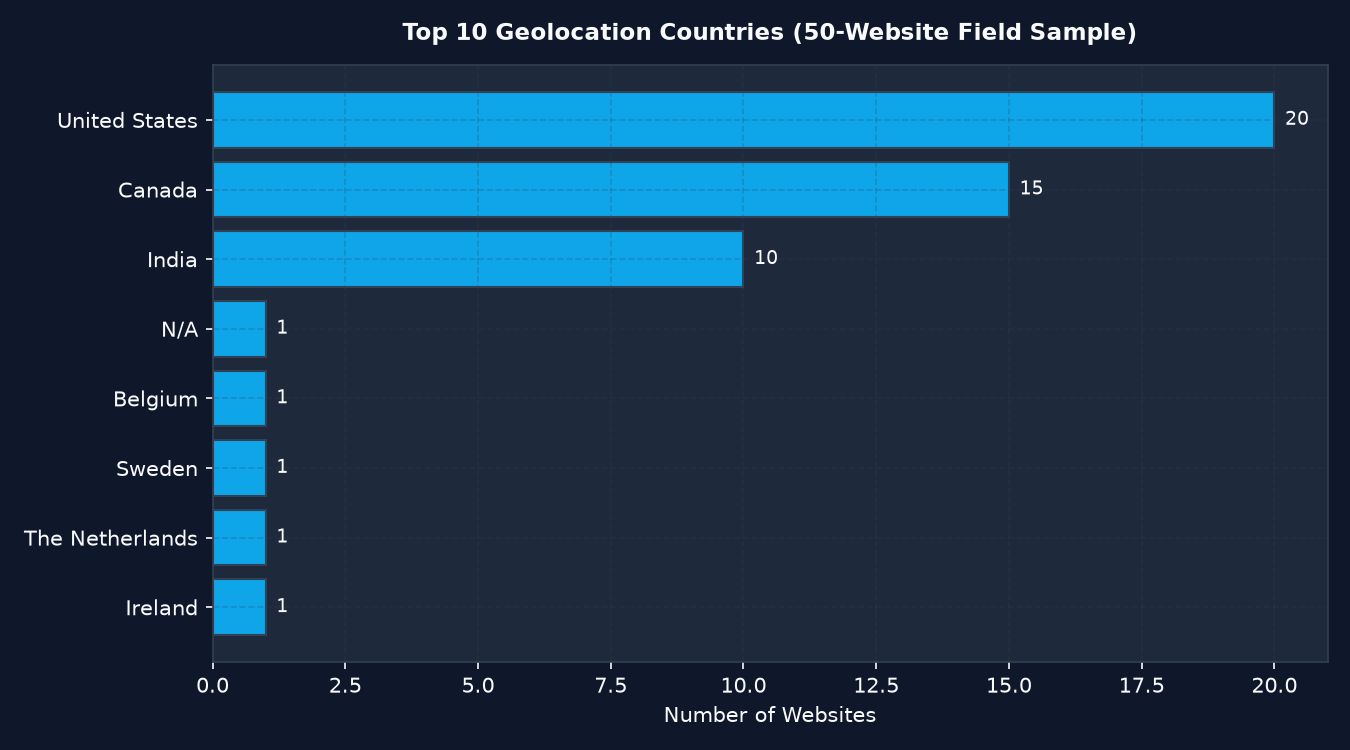
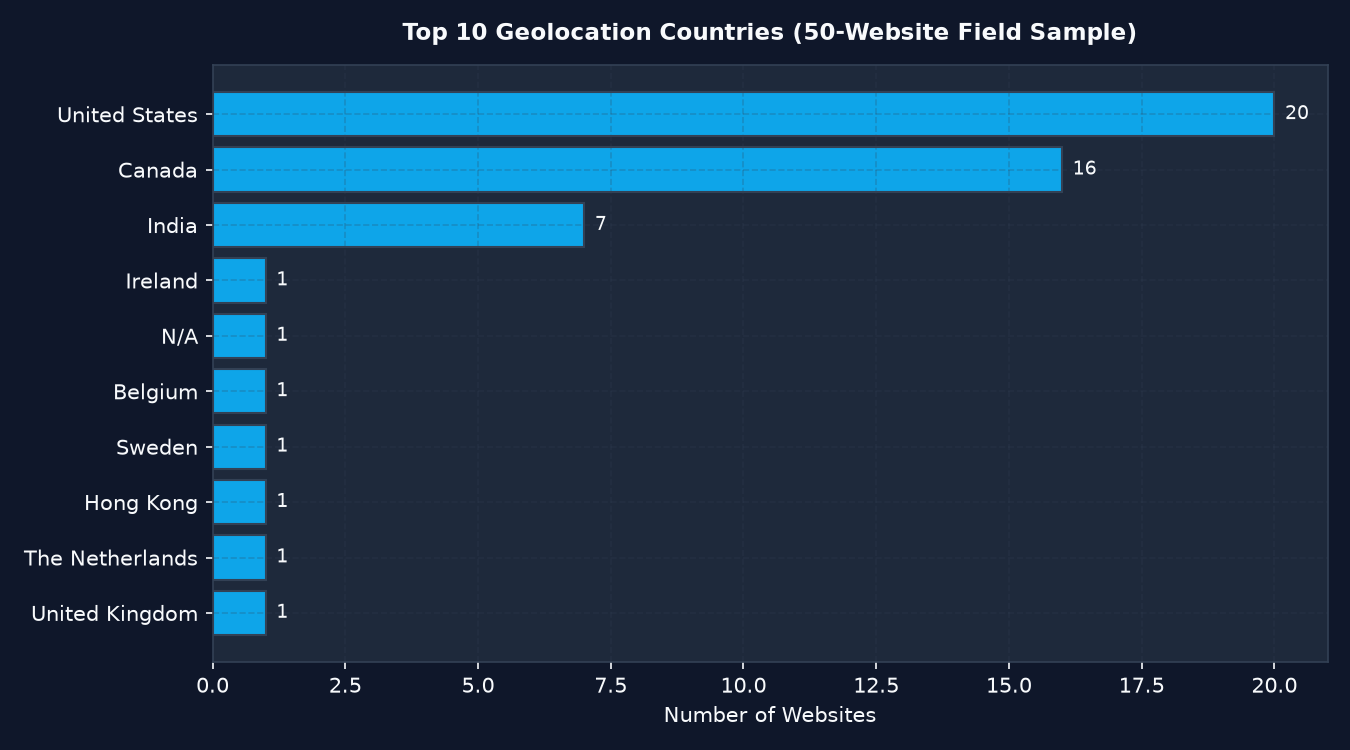
COMMIT FILE S

Changed region(s): [[0.0311, 0.1227, 0.9644, 0.46], [0.0, 0.4907, 0.2178, 0.828]]

diff --git a/data/analysis/research_analysis_report.md b/data/analysis/research_analysis_report.md
@@ -3,9 +3,9 @@
 ## 1. Executive Summary
 - **Total Websites Analyzed:** 50
 - **Overall Success Rate:** 98.0% (49/50 lookups)
-- **Unique Geolocation Countries:** 8 (Top country: United States with 20 observations)
+- **Unique Geolocation Countries:** 10 (Top country: United States with 20 observations)
 - **IP Protocol Ratio:** IPv4: 49 | IPv6: 0
-- **Median Execution Time:** DNS: 21.16 ms | Geolocation API: 277.29 ms | Total Pipeline: 302.2 ms
+- **Median Execution Time:** DNS: 24.44 ms | Geolocation API: 285.52 ms | Total Pipeline: 316.25 ms
 
 ---
 
@@ -13,16 +13,16 @@
 
 | Metric | Sample Count | Mean (ms) | Std Dev (ms) | Min (ms) | P25 (ms) | Median (ms) | P75 (ms) | Max (ms) | IQR (ms) |
 |---|---|---|---|---|---|---|---|---|---|
-| **DNS Resolution** | 50 | 132.43 | 294.0 | 0.52 | 18.34 | 21.16 | 25.52 | 1143.83 | 7.18 |
-| **Geolocation API** | 50 | 299.25 | 155.33 | 0.0 | 269.99 | 277.29 | 289.32 | 1273.38 | 19.32 |
-| **Total Pipeline** | 50 | 431.68 | 309.4 | 249.23 | 292.54 | 302.2 | 320.24 | 1413.75 | 27.7 |
+| **DNS Resolution** | 50 | 82.72 | 185.71 | 14.08 | 22.16 | 24.44 | 35.33 | 914.11 | 13.17 |
+| **Geolocation API** | 50 | 310.21 | 117.69 | 0.0 | 268.86 | 285.52 | 306.86 | 976.59 | 38.0 |
+| **Total Pipeline** | 50 | 392.93 | 211.84 | 19.62 | 295.37 | 316.25 | 394.66 | 1180.58 | 99.3 |
 
 *Note: Median is reported as the primary location metric due to right-skewed timing distributions caused by occasional network latencies.*
 
 ---
 
 ## 3. Geographic & Network Findings
-- **Geographic Representation:** Across 50 public websites, 8 distinct countries were identified. The United States was the most frequently geolocated country (20 sites).
+- **Geographic Representation:** Across 50 public websites, 10 distinct countries were identified. The United States was the most frequently geolocated country (20 sites).
 - **Network Providers & Infrastructure:** Major cloud and CDN infrastructure providers (e.g. Cloudflare, Fastly, Amazon CloudFront, Google LLC) represent a significant proportion of resolved target IPs.
 
 ---
@@ -35,7 +35,7 @@ Missing attributes (e.g., unreturned city or region names from IP registry datab
 - **Latitude:** 49 present (1 missing / 2.0%)
 - **Longitude:** 49 present (1 missing / 2.0%)
 - **Timezone:** 49 present (1 missing / 2.0%)
-- **Organization:** 46 present (4 missing / 8.0%)
+- **Organization:** 45 present (5 missing / 10.0%)
 - **Isp:** 49 present (1 missing / 2.0%)
 - **Asn:** 49 present (1 missing / 2.0%)
 - **Selected_ip:** 49 present (1 missing / 2.0%)
